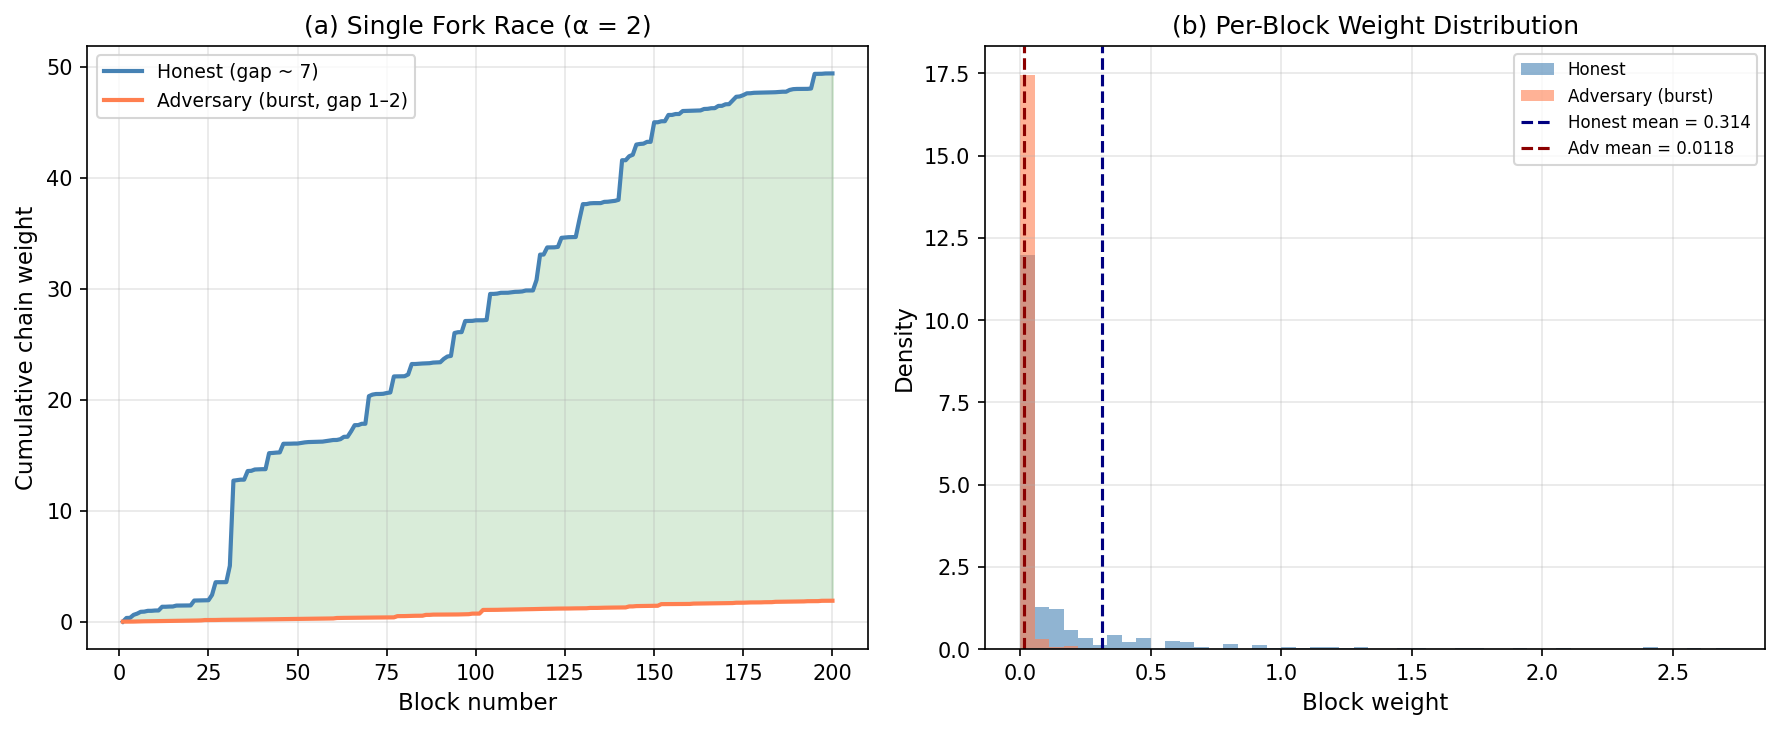
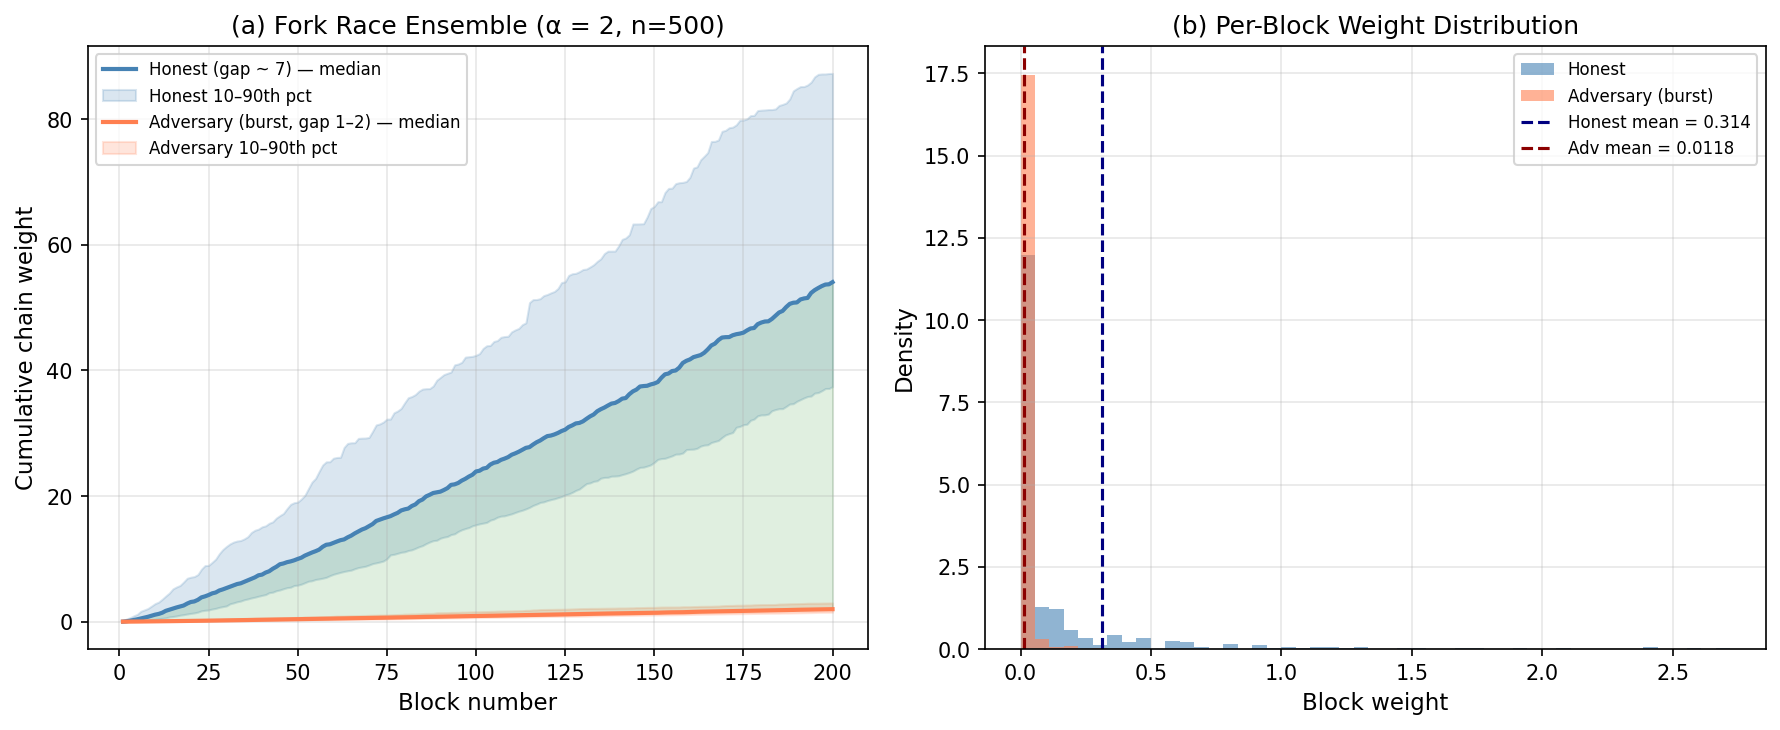
fix: fig4 cumulative weight now shows 500-race ensemble with median + 10/90th pct bands

diff --git a/paper/figures/generate_paper_figures.py b/paper/figures/generate_paper_figures.py
@@ -225,19 +225,35 @@ def fig3_density():
 
 def fig4_cumulative_weight():
     fig, (ax1, ax2) = plt.subplots(1, 2, figsize=(12, 5))
-    
-    # Left: Single race trace
-    rng = np.random.RandomState(7)
-    _, _, h_trace, a_trace = simulate_race(200, 7.0, [1,1,1,2,2,3], 2.0, True, rng)
-    
-    blocks = range(1, 201)
-    ax1.plot(blocks, h_trace, color='steelblue', linewidth=2, label='Honest (gap ~ 7)')
-    ax1.plot(blocks, a_trace, color='coral', linewidth=2, label='Adversary (burst, gap 1–2)')
-    ax1.fill_between(blocks, h_trace, a_trace, alpha=0.15, color='green')
+
+    # Left: 500-race ensemble — median + 10th/90th percentile band
+    N_RACES = 500
+    RACE_LEN = 200
+    h_all = np.zeros((N_RACES, RACE_LEN))
+    a_all = np.zeros((N_RACES, RACE_LEN))
+    for i in range(N_RACES):
+        rng_i = np.random.RandomState(i)
+        _, _, h_trace, a_trace = simulate_race(RACE_LEN, 7.0, [1,1,1,2,2,3], 2.0, True, rng_i)
+        h_all[i] = h_trace
+        a_all[i] = a_trace
+
+    blocks = np.arange(1, RACE_LEN + 1)
+    h_med = np.median(h_all, axis=0)
+    h_lo  = np.percentile(h_all, 10, axis=0)
+    h_hi  = np.percentile(h_all, 90, axis=0)
+    a_med = np.median(a_all, axis=0)
+    a_lo  = np.percentile(a_all, 10, axis=0)
+    a_hi  = np.percentile(a_all, 90, axis=0)
+
+    ax1.plot(blocks, h_med, color='steelblue', linewidth=2, label='Honest (gap ~ 7) — median')
+    ax1.fill_between(blocks, h_lo, h_hi, color='steelblue', alpha=0.2, label='Honest 10–90th pct')
+    ax1.plot(blocks, a_med, color='coral', linewidth=2, label='Adversary (burst, gap 1–2) — median')
+    ax1.fill_between(blocks, a_lo, a_hi, color='coral', alpha=0.2, label='Adversary 10–90th pct')
+    ax1.fill_between(blocks, h_med, a_med, alpha=0.12, color='green')
     ax1.set_xlabel('Block number')
     ax1.set_ylabel('Cumulative chain weight')
-    ax1.set_title('(a) Single Fork Race (α = 2)')
-    ax1.legend()
+    ax1.set_title(f'(a) Fork Race Ensemble (α = 2, n={N_RACES})')
+    ax1.legend(fontsize=8)
     ax1.grid(True, alpha=0.3)
     
     # Right: Per-block weight distributions (10k blocks)

diff --git a/paper/main.tex b/paper/main.tex
@@ -375,7 +375,7 @@ Evaluation is performed through Monte Carlo fork races. Each race: an honest cha
 \begin{figure}[t]
     \centering
     \includegraphics[width=\textwidth]{figures/fig4_cumweight.pdf}
-    \caption{\textbf{Cumulative weight analysis.} \emph{(a)}~A single 200-block fork race. The honest chain (blue) steadily outpaces the burst adversary (red). The green fill shows the growing weight gap. Honest finishes at approximately $10\times$ the adversary's cumulative weight. \emph{(b)}~Per-block weight distributions over 10{,}000 blocks. Honest blocks (blue) cluster around a higher mean, while adversary burst blocks (red) cluster near zero. The distributions have minimal overlap, meaning weight-based chain selection provides strong discrimination.}
+    \caption{\textbf{Cumulative weight analysis.} \emph{(a)}~Ensemble of 500 independent 200-block fork races. Solid lines show the median cumulative weight; shaded bands show the 10th--90th percentile range. The honest chain (blue) consistently outpaces the burst adversary (red) with tight variance---the green fill between medians shows the growing weight gap. Honest chains finish at approximately $10\times$ the adversary's cumulative weight across all runs. \emph{(b)}~Per-block weight distributions over 10{,}000 blocks. Honest blocks (blue) cluster around a higher mean, while adversary burst blocks (red) cluster near zero. The distributions have minimal overlap, meaning weight-based chain selection provides strong discrimination.}
     \label{fig:cumweight}
 \end{figure}
 
